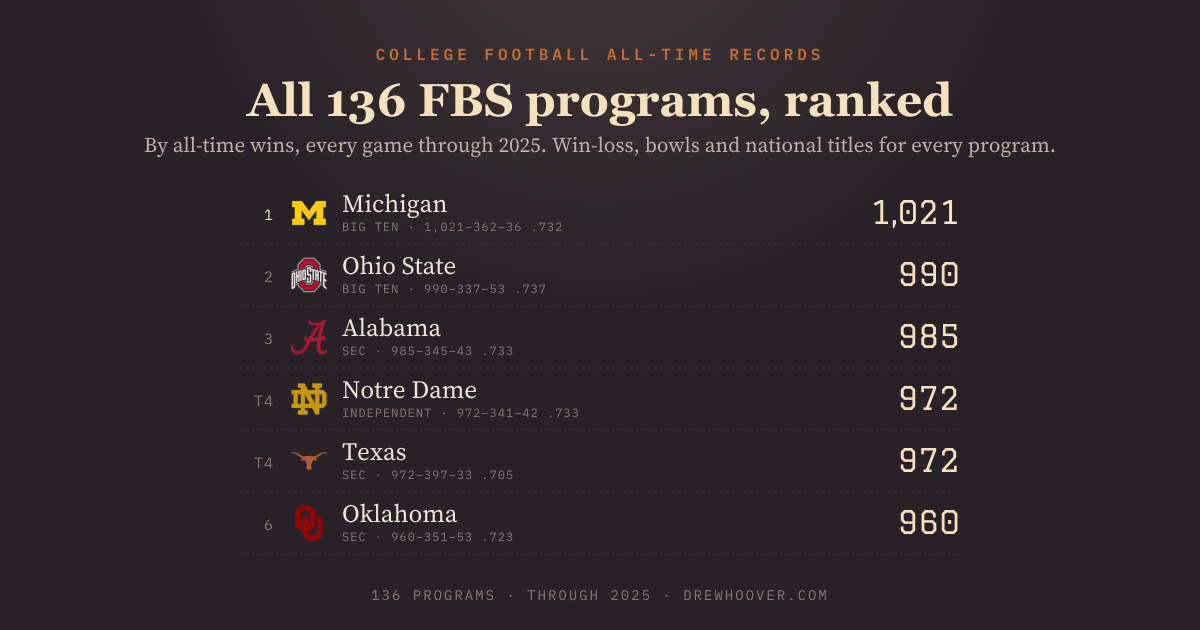
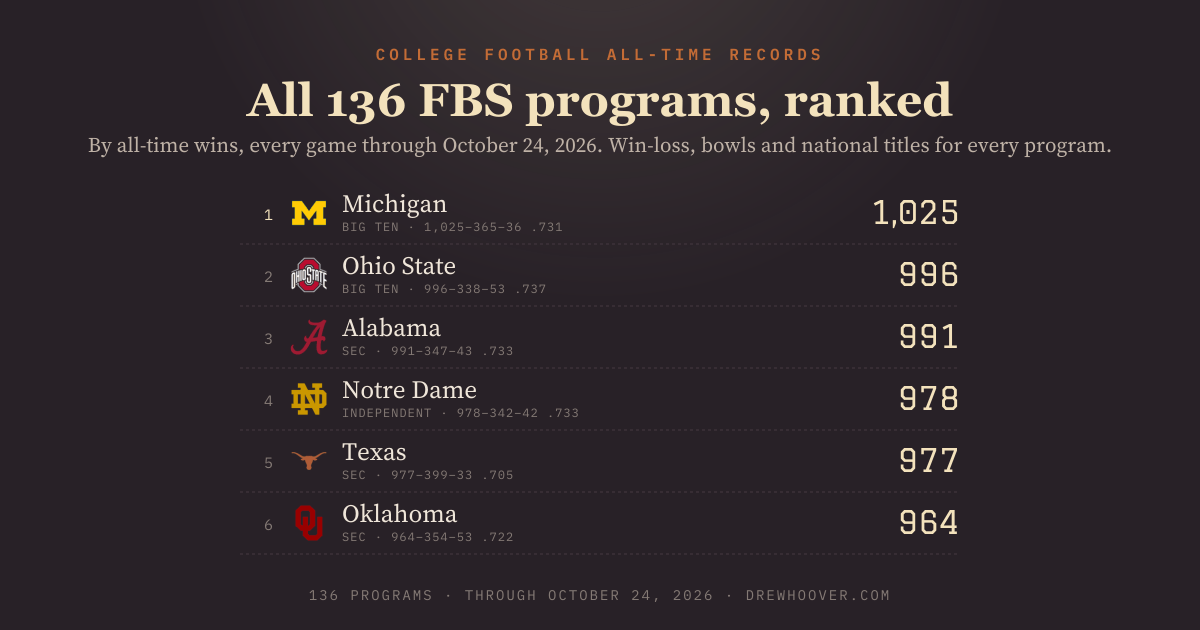
The running season's games, layered onto Wikipedia's table
scripts/build-current.mjs counts every program's 2026 wins, losses and ties
from Streak King's published payload (cfbfastR's schedules with CFBD's finals)
into src/data/current.json; football.js adds them to Wikipedia's record
through 2025 and counts 2026 as a season played once a program has played.
The bowls and the titles stay Wikipedia's until the season is over.

Every 'through 2025' the page says is now the latest game, 'through
October 24, 2026': the head (index.html's %THROUGH%, filled by
vite.config.js), the dateline, the sentence, the claims, llms.txt and the
cards. The Method says what comes from where, and a program's panel shows
its 2026 record beside its all-time one. The share card's edge cache keys on
the date too, so a refresh draws new cards.

The deploy workflow runs the count on a Sunday 22:00 and Monday 13:00 UTC
schedule, August through January, after Streak King's Sunday refresh; a
push builds the committed file. og.png and card.png are redrawn.

diff --git a/src/FootballRecords.jsx b/src/FootballRecords.jsx
@@ -88,7 +88,7 @@ export default function FootballRecords() {
 
   return (
     <main>
-      <Dateline span={`through the ${F.THROUGH} season`}>
+      <Dateline span={`through ${F.THROUGH}`}>
         <NavIcons here="board" find={find} onShare={onShare} copied={copied} isMobile={isMobile} />
       </Dateline>
       <h1>College Football All-Time Records</h1>
@@ -132,7 +132,7 @@ export default function FootballRecords() {
                   </div>
                   <p className="claim">{footballClaim(r, board)}</p>
                   <div className="stats">
-                    <span>All-time record<b>{F.recordText(t)}</b><small>{F.pctText(t.winPct)}</small></span>
+                    <span>All-time record<b>{F.recordText(t)}</b><small>{F.pctText(t.winPct)}{F.LATEST ? ` · ${F.seasonText(t)} in ${F.SEASON}` : ''}</small></span>
                     <span>Bowl record<b>{F.bowlText(t)}</b><small>{t.bowlPct == null ? '' : F.pctText(t.bowlPct)}</small></span>
                     <span>Claimed national titles<b>{t.claimedNatChamps}</b><small>{years(t.claimedYears)}</small></span>
                     <span>Unclaimed selections<b>{t.unclaimedNatChamps}</b><small>{years(t.unclaimedYears)}</small></span>
@@ -155,17 +155,21 @@ export default function FootballRecords() {
       <Method>
         <p>
           Every row is a program's all-time record as Wikipedia's{' '}
-          <a href={F.SOURCE_URL}>list of FBS football programs</a> (<a href="https://creativecommons.org/licenses/by-sa/4.0/">CC BY-SA 4.0</a>) tallies it,
-          through the {F.THROUGH} season: wins, losses and ties in every game the program has played, its bowl record, and the
-          national championships it claims. The sections below say where the records come from, what counts, what the words mean,
+          <a href={F.SOURCE_URL}>list of FBS football programs</a> (<a href="https://creativecommons.org/licenses/by-sa/4.0/">CC BY-SA 4.0</a>) tallies it
+          through the {F.BASE_SEASON} season, with every {F.SEASON} game {F.LATEST ? `through ${F.LATEST} ` : ''}added as the season is
+          played: wins, losses and ties in every game the program has played, its bowl record, and the national championships it
+          claims. The bowls and the titles are through {F.BASE_SEASON} until the {F.SEASON} season is over. The sections below say where the records come from, what counts, what the words mean,
           and where a published number differs.
         </p>
 
         <details>
           <summary>Where the records come from</summary>
           <p>
-            One table: Wikipedia's list of FBS football programs, read through the {F.THROUGH} season. It carries each program's wins,
+            Wikipedia's list of FBS football programs, read through the {F.BASE_SEASON} season. It carries each program's wins,
             losses and ties, its bowl wins, losses and ties, its seasons played, and its national championships, claimed and unclaimed.
+            The {F.SEASON} games come from <a href="/cfb-streak-king/">College Football Streak King</a>'s ledger, which reads
+            cfbfastR's schedules and CollegeFootballData's finals and refreshes after every Saturday; this page adds each program's{' '}
+            {F.SEASON} wins, losses and ties to its record, and counts {F.SEASON} as a season played once it has played a game.
             The {int(F.TEAMS.length)} programs are this season's FBS members; FCS and lower-division programs aren't listed there, so
             they aren't here.
           </p>

diff --git a/index.html b/index.html
@@ -3,8 +3,8 @@
   <head>
     <meta charset="UTF-8" />
     <meta name="viewport" content="width=device-width, initial-scale=1.0" />
-    <title>All 136 FBS football programs ranked by all-time wins, through 2025</title>
-    <meta name="description" content="Every NCAA FBS football program ranked by all-time wins, win percentage, bowl record and national championships. 136 programs, by conference, every game through the 2025 season." />
+    <title>All 136 FBS football programs ranked by all-time wins, through %THROUGH%</title>
+    <meta name="description" content="Every NCAA FBS football program ranked by all-time wins, win percentage, bowl record and national championships. 136 programs, by conference, every game through %THROUGH%." />
     <link rel="canonical" href="https://drewhoover.com/cfb-all-time-records/" />
     <link rel="preconnect" href="https://fonts.googleapis.com" />
     <link rel="preconnect" href="https://fonts.gstatic.com" crossorigin />
@@ -15,16 +15,16 @@
          share worker (workers/share) rewrites these for a ?sort=/?conf=/?t= address -->
     <meta property="og:type" content="website" />
     <meta property="og:site_name" content="drewhoover.com" />
-    <meta property="og:title" content="All 136 FBS football programs ranked by all-time wins, through 2025" />
-    <meta property="og:description" content="Every NCAA FBS football program ranked by all-time wins, win percentage, bowl record and national championships. 136 programs, by conference, through 2025." />
+    <meta property="og:title" content="All 136 FBS football programs ranked by all-time wins, through %THROUGH%" />
+    <meta property="og:description" content="Every NCAA FBS football program ranked by all-time wins, win percentage, bowl record and national championships. 136 programs, by conference, through %THROUGH%." />
     <meta property="og:url" content="https://drewhoover.com/cfb-all-time-records/" />
     <meta property="og:image" content="https://drewhoover.com/cfb-all-time-records/og.png" />
     <meta property="og:image:width" content="1200" />
     <meta property="og:image:height" content="630" />
     <meta property="og:image:alt" content="All 136 FBS football programs ranked by all-time wins, on a dark leaderboard." />
     <meta name="twitter:card" content="summary_large_image" />
-    <meta name="twitter:title" content="All 136 FBS football programs ranked by all-time wins, through 2025" />
-    <meta name="twitter:description" content="Every NCAA FBS football program ranked by all-time wins, win percentage, bowl record and national championships. Through 2025." />
+    <meta name="twitter:title" content="All 136 FBS football programs ranked by all-time wins, through %THROUGH%" />
+    <meta name="twitter:description" content="Every NCAA FBS football program ranked by all-time wins, win percentage, bowl record and national championships. Through %THROUGH%." />
     <meta name="twitter:image" content="https://drewhoover.com/cfb-all-time-records/og.png" />
   </head>
   <body>

diff --git a/src/lib/football.js b/src/lib/football.js
@@ -2,18 +2,39 @@
 // codec and the ranking. Pure (no window, no React) so the prerender, the
 // share worker and the page all rank the same way.
 import file from '../data/football.json';
+import current from '../data/current.json';
 
-/** the season the records run through */
-export const THROUGH = file.through;
+/** the last finished season Wikipedia's table runs through: the bowls and the titles stop there */
+export const BASE_SEASON = file.through;
 export const SOURCE_URL = file.source;
-/** every current FBS program, as the Wikipedia table lists it */
-export const TEAMS = file.teams;
+/** the running season, layered on from Streak King's games (scripts/build-current.mjs) */
+export const SEASON = current.season;
+/** the running season's latest game, "October 24, 2026"; null before its first */
+export const LATEST = current.through
+  ? new Date(`${current.through}T12:00:00Z`).toLocaleDateString('en-US', { month: 'long', day: 'numeric', year: 'numeric', timeZone: 'UTC' })
+  : null;
+/** what the wins and losses run through: "October 24, 2026", or "2025" before the running season's first game */
+export const THROUGH = LATEST ?? String(BASE_SEASON);
+/** the running season's own record, by slug */
+export const seasonOf = (t) => current.teams[t.slug] ?? { w: 0, l: 0, t: 0 };
+
+// Wikipedia's record plus this season's games; a season with a game played is a season played
+const layered = (t) => {
+  const c = seasonOf(t);
+  if (c.w + c.l + c.t === 0) return t;
+  const wins = t.wins + c.w, losses = t.losses + c.l, ties = t.ties + c.t;
+  return { ...t, wins, losses, ties, winPct: Math.round(((wins + ties / 2) / (wins + losses + ties)) * 1000) / 1000, years: t.years + 1 };
+};
+/** every current FBS program, as the Wikipedia table lists it, with this season's games added */
+export const TEAMS = file.teams.map(layered);
 export const teamBySlug = (slug) => TEAMS.find((t) => t.slug === slug) ?? null;
 
 const int = (n) => n.toLocaleString('en-US');
 /** .732, the way a baseball average reads */
 export const pctText = (p) => (p == null ? '—' : p.toFixed(3).replace(/^0/, ''));
 export const recordText = (t) => `${int(t.wins)}–${int(t.losses)}${t.ties ? `–${t.ties}` : ''}`;
+/** this season's record so far, "4–3" */
+export const seasonText = (t) => { const c = seasonOf(t); return `${c.w}–${c.l}${c.t ? `–${c.t}` : ''}`; };
 export const bowlText = (t) => (t.bowlWins + t.bowlLosses + t.bowlTies === 0 ? 'no bowls' : `${t.bowlWins}–${t.bowlLosses}${t.bowlTies ? `–${t.bowlTies}` : ''}`);
 
 /** what a program can be ranked by: the word in the sentence, the noun a claim uses, how its value prints */

diff --git a/workers/share/index.ts b/workers/share/index.ts
@@ -30,7 +30,7 @@ interface Env { ORIGIN?: string; NO_REPORT?: string }
 const BASE = '/cfb-all-time-records';
 const SITE = 'cfb-all-time-records';
 
-/** Bump on any change to what the card draws or how a URL reads; it keys the edge cache. */
+/** Bump on any change to what the card draws or how a URL reads; it keys the edge cache, with the latest game the data counts. */
 const CARD_VERSION = '2026-10-21b';
 
 // Analytics: one Mixpanel event per link preview, sent server-side to the
@@ -144,7 +144,7 @@ export default {
       try {
         const canon = F.toUrl(F.parseUrl(url.search));
         if (!canon) throw new Error('an address with nothing to draw');
-        const key = new Request(`${url.origin}${url.pathname}?v=${CARD_VERSION}&${canon.slice(1)}`, { method: 'GET' });
+        const key = new Request(`${url.origin}${url.pathname}?v=${CARD_VERSION}-${F.THROUGH.replace(/\W+/g, '')}&${canon.slice(1)}`, { method: 'GET' });
         const cached = await caches.default.match(key);
         report(env, ctx, request, 'share card', { ...urlProps(url), cached: !!cached });
         if (cached) return cached;

diff --git a/vite.config.js b/vite.config.js
@@ -1,12 +1,15 @@
 import { defineConfig } from 'vite'
 import react from '@vitejs/plugin-react'
+import * as F from './src/lib/football.js'
 
 // One page, served by GitHub Pages at https://drewhoover.com/cfb-all-time-records/.
 // `npm run build` runs scripts/prerender.mjs after this so the page ships with
 // its markup baked in. The share worker (workers/share) imports the same
 // src/lib modules, so the words and ranks are the site's. public/football.html
-// is the board's old address, a redirect to the root.
+// is the board's old address, a redirect to the root. index.html's head says
+// %THROUGH%, the latest game the records count (src/data/current.json).
+const through = { name: 'through', transformIndexHtml: (html) => html.replaceAll('%THROUGH%', F.THROUGH) }
 export default defineConfig({
-  plugins: [react()],
+  plugins: [react(), through],
   base: '/cfb-all-time-records/',
 })

diff --git a/src/lib/share.js b/src/lib/share.js
@@ -12,7 +12,7 @@ const int = (n) => n.toLocaleString('en-US');
 const confWords = (q) => (q.conf ? `${q.conf}` : `All ${int(F.TEAMS.length)}`);
 export const footballSentence = (q) => `${confWords(q)} FBS programs ranked by ${F.SORTS[q.sort].label}, every game through ${F.THROUGH}.`;
 
-/** "Michigan has 1,021 all-time wins, 1st of 136 FBS programs, through 2025." */
+/** "Michigan has 1,025 all-time wins, 1st of 136 FBS programs, through October 24, 2026." */
 export function footballClaim(row, board) {
   const s = F.SORTS[board.sort];
   const where = board.conf ? `${board.conf} programs` : 'FBS programs';

diff --git a/CLAUDE.md b/CLAUDE.md
@@ -2,7 +2,7 @@
 
 - What it is: CFB All-Time Records, all 136 FBS football programs on one board at https://drewhoover.com/cfb-all-time-records/. The sentence picks the conference and the measure (all-time wins, win percentage, bowl wins, bowl win percentage, claimed or total national titles, seasons, losses), the rows rank by it with competition ranks, and a program opens inline under its row. `?sort=`, `?conf=` and `?t=<slug>` carry the board and the open program; defaults are omitted. The repo is `DrewHoo/cfb-all-time-records`; `package.json` "name" is the URL slug.
 - Redesigned 2026-10-21 in the house style the drewhoover.com sports sites share (College Football Streak King, `~/Projects/cfb-streak-king`, is the canon for chrome): the dark palette, Georgia Bold h1 and h2, Graduate numbers, Source Serif words, Plex Mono labels, Radix `Picker.jsx` for every select, the dateline icon bar (find a program, Ko-fi, share), What to read next, the citing ask, Method, footer. The same day the championship grid left this repo: the old grid (23 sports, 1990 on) lives on as collegiate-championships (`~/Projects/collegiate-championships`, https://drewhoover.com/collegiate-championships/), now 33 sports from 1972.
-- Data: `src/data/football.json`, Wikipedia's list of FBS football programs (CC BY-SA 4.0) through the 2025 season, with each program's ESPN id and slug; `public/logos-color/` is Streak King's mark set. Win percentage counts a tie as half a win; claimed titles are the school's own count, unclaimed selections the seasons a recognized selector named it champion; vacated games stay in, as Wikipedia's table keeps them. `src/lib/football.js` is pure (the measures, the URL codec, the ranking) and is shared by the page, the prerender, the card generator and the worker; `src/lib/share.js` words every title, claim and card.
+- Data: `src/data/football.json`, Wikipedia's list of FBS football programs (CC BY-SA 4.0) through the 2025 season, with each program's ESPN id and slug, plus `src/data/current.json`, the running season's wins, losses and ties per program, which `scripts/build-current.mjs` counts from College Football Streak King's published payload (`https://drewhoover.com/cfb-streak-king/share/payload.json`) and `src/lib/football.js` adds to the table (a season with a game played counts as a season played; bowls and titles stay Wikipedia's until the season is over and the table is read again). The deploy workflow refreshes it on its Sunday and Monday schedule, in season, without committing it; commit it by hand with `node scripts/build-current.mjs`. Every 'through' the page says is `F.THROUGH`, the date of the latest game (index.html's head says `%THROUGH%`, which `vite.config.js` fills); `public/logos-color/` is Streak King's mark set. Win percentage counts a tie as half a win; claimed titles are the school's own count, unclaimed selections the seasons a recognized selector named it champion; vacated games stay in, as Wikipedia's table keeps them. `src/lib/football.js` is pure (the measures, the URL codec, the ranking) and is shared by the page, the prerender, the card generator and the worker; `src/lib/share.js` words every title, claim and card.
 - Build: `npm install`, `npm run dev` (http://localhost:5173/cfb-all-time-records/; `.claude/launch.json` has the dev, preview and worker entries), `npm run build` (vite build, then `scripts/prerender.mjs` bakes the board's markup, JSON-LD, the index site's embeds with `data-section="sports"`, `dist/sitemap.xml` and `dist/llms.txt` from `scripts/lib/llms.mjs`), `npm run preview` (dist at 4173). There is no typecheck or test script; the build is the check. Nothing reads `window` during render: the URL is applied once after mount so the hydrate matches the prerender. `npm run gen:og` redraws `public/og.png` and `public/card.png` (committed) on a Mac.
 - The share worker: `workers/share/` (name `cfb-all-time-records-share`) sits on `drewhoover.com/cfb-all-time-records/*` in front of GitHub Pages. For an address that says more than the root (`?sort=`, `?conf=`, `?t=`) it rewrites `<head>` with the site's own words and points `og:image` at `share/og.png?…`, drawn on demand with workers-og and cached at the edge; crawler fetches are counted in Mixpanel as `share unfurl` and `share card`. Bump `CARD_VERSION` in `workers/share/index.ts` with any change to what a card draws or how the URL is read (it keys the cache). Local: `npm run build && npm run preview`, then `npm run worker:dev` (http://localhost:8787/cfb-all-time-records/share/og.png?sort=winPct&conf=SEC&t=alabama). `deploy.yml` deploys it after every push to `main` (`CLOUDFLARE_API_TOKEN` secret).
 - Old addresses: the board lived at `/football.html`, and the index site's card still links there, so the redirect must keep working. The worker answers `/football.html` with a 301 to the root, query kept, and `public/football.html` covers the origin itself (a meta refresh and `location.replace`, hash kept). A `?s=<sport>` address (the old grid) 301s to collegiate-championships.

diff --git a/README.md b/README.md
@@ -42,7 +42,7 @@ Bump `CARD_VERSION` in `workers/share/index.ts` whenever the card or the URL rea
 
 ## Data
 
-`src/data/football.json`: Wikipedia's [list of FBS football programs](https://en.wikipedia.org/wiki/List_of_NCAA_Division_I_FBS_football_programs) (CC BY-SA 4.0) through the 2025 season, with each program's ESPN id and slug. The color marks in `public/logos-color/` are the same set Streak King carries. Win percentage counts a tie as half a win; claimed titles are the school's own count, unclaimed selections the seasons a recognized selector named it champion.
+`src/data/football.json`: Wikipedia's [list of FBS football programs](https://en.wikipedia.org/wiki/List_of_NCAA_Division_I_FBS_football_programs) (CC BY-SA 4.0) through the 2025 season, with each program's ESPN id and slug. `src/data/current.json` adds the running season: each program's wins, losses and ties from [College Football Streak King](https://drewhoover.com/cfb-streak-king/)'s ledger, counted by `node scripts/build-current.mjs`, which the deploy workflow runs on its in-season schedule (Sunday 22:00 and Monday 13:00 UTC, August through January). The bowls and the titles stay through 2025 until the season is over. The color marks in `public/logos-color/` are the same set Streak King carries. Win percentage counts a tie as half a win; claimed titles are the school's own count, unclaimed selections the seasons a recognized selector named it champion.
 
 ## Deployment
 
